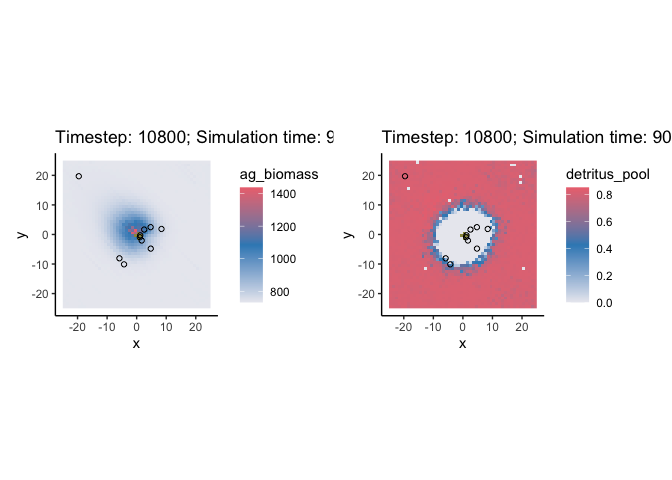
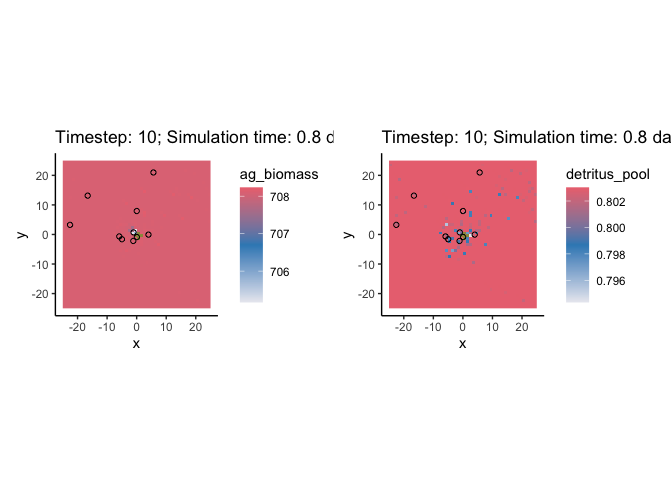
:pencil:...how hard can this be...

diff --git a/README.md b/README.md
@@ -5,9 +5,13 @@
 
 <!-- badges: start -->
 
-\[![Lifecycle](https://img.shields.io/badge/lifecycle-maturing-blue.svg)
-\[![Project Status:
-Active](https://www.repostatus.org/badges/latest/active.svg) [![License:
+[![Project
+Status](https://www.repostatus.org/badges/latest/active.svg)](https://www.repostatus.org/#active)
+[![Lifecycle:
+maturing](https://img.shields.io/badge/lifecycle-maturing-blue.svg)](https://www.tidyverse.org/lifecycle/#maturing)
+[![GitHub
+release](https://img.shields.io/github/release/Naereen/StrapDown.js.svg)](https://GitHub.com/Naereen/StrapDown.js/releases/)
+[![License:
 MIT](https://img.shields.io/badge/License-MIT-yellow.svg)](https://opensource.org/licenses/MIT)
 
 <!-- badges: end -->
@@ -92,22 +96,22 @@ result <- run_simulation(seafloor = input_seafloor,
                          fish_population = input_fish_population, 
                          starting_values = starting_values, parameters = parameters, 
                          reef_attraction = TRUE,
-                         max_i = 10800, min_per_i = 120,
+                         max_i = 10, min_per_i = 120,
                          verbose = FALSE)
 
 result
-#> Total simulated time: 900 days
+#> Total simulated time: 0.833333333333333 days
 #> 
 #> Seafloor: (ag_biomass, bg_biomass, detritus_pool, detritus_dead, wc_nutrients)
-#> Minimum: 0, 0, 0, 0, 0.07
-#> Median: 733.31931, 2657.16919, 0.81372, 0, 0.07001
-#> Maximum: 1437.23803, 2657.16926, 0.85315, 0.08741, 0.07961
+#> Minimum: 0, 0, 0, 0, 0.0392
+#> Median: 708.08975, 2657.16915, 0.80299, 0, 0.20463
+#> Maximum: 708.23103, 2657.16917, 0.80302, 0, 0.211
 #> 
 #> Fish population: (length, weight)
-#> Minimum: 3.82154, 0.83799
-#> Median: 8.26574, 9.61683
-#> Maximum: 18.64158, 125.53968
-#> Total deaths: 10
+#> Minimum: 4.70287, 1.61482
+#> Median: 7.79804, 7.9864
+#> Maximum: 14.9644, 62.68278
+#> Total deaths: 0
 ```
 
 To plot the results, pass the resulting object to the `plot` function.
